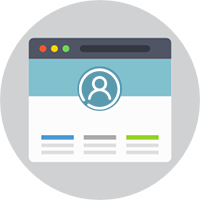
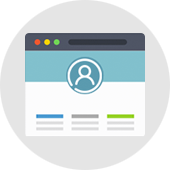
setting style

diff --git a/client/pages/profile.js b/client/pages/profile.js
@@ -30,7 +30,7 @@ export class AuthProfile extends localize(i18next)(PageView) {
         }
         .user {
           background: url(../assets/images/icon-profile.png) center top no-repeat;
-          margin-top: 5%;
+          margin: var(--profile-icon-margin);
           padding: 210px 20px 20px 20px;
           color: var(--secondary-color);
           font: var(--header-bar-title);
